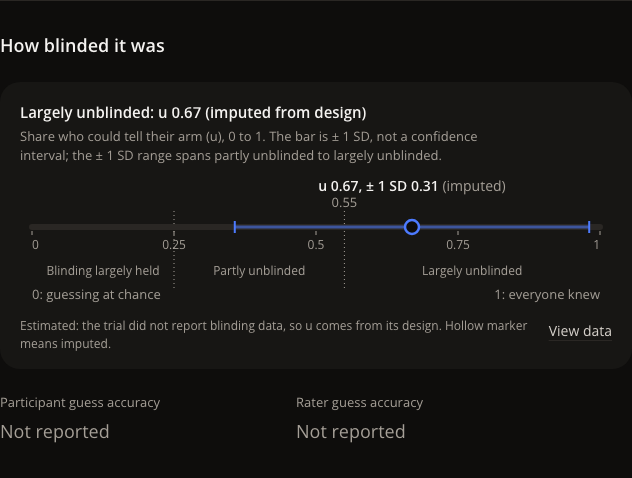
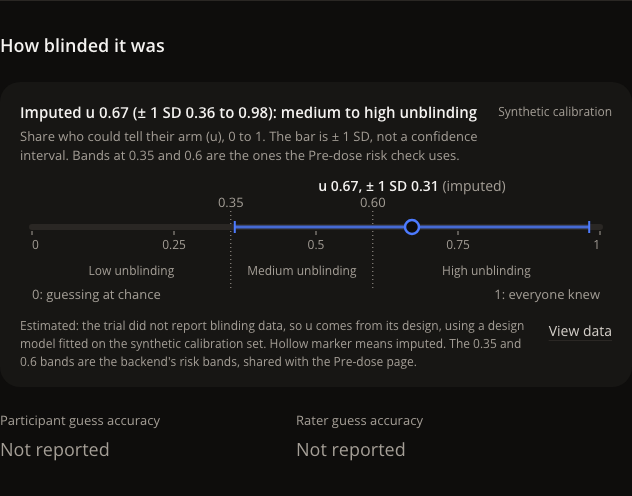
Studio fix round 1: backend bands and SD-aware verdict on the blinding meter, synthetic calibration tags, assumed feasibility, tap tooltips, focus ring

diff --git a/frontend/src/components/studio/FixesChart.tsx b/frontend/src/components/studio/FixesChart.tsx
@@ -25,12 +25,28 @@ export function fixesSubtitle(fx: Fix[]): string {
   const top = fx[0];
   const bigger = fx.slice(1).find((f) => has(f.reduction) && has(top?.reduction) && f.reduction > (top.reduction as number));
   if (!top || !bigger) return `${base}.`;
-  return `${base}. ${bigger.change} cuts slightly more (${fmt(bigger.reduction, 3)}) but is less feasible (${fmt(bigger.feasibility, 1)}).`;
+  const gap = (bigger.reduction as number) - (top.reduction as number);
+  const qualifier = gap < 0.01 ? "slightly more" : gap < 0.05 ? "more" : "much more";
+  return `${base}. ${bigger.change} cuts ${qualifier} (${fmt(bigger.reduction, 3)} vs ${fmt(top.reduction, 3)} g) but has a lower assumed feasibility (${fmt(bigger.feasibility, 1)}).`;
+}
+
+/** Footnote: feasibility is an assumption, and how the gap between the top two compares with the u uncertainty. */
+export function fixesFootnote(fx: Fix[]): string {
+  const parts = ["Expected bias is the model's prediction for a new trial with this change, using the same calibration.",
+    "Feasibility weights are assumptions from the model's assumption table, not data."];
+  const [a, b] = fx;
+  if (a && b && has(a.reduction) && has(b.reduction)) {
+    const gap = Math.abs(a.reduction - b.reduction);
+    const sds = [a.uSd, b.uSd].filter(has);
+    const inside = sds.length > 0 && gap < Math.min(...sds);
+    parts.push(`The top two differ by ${fmt(gap, 3)} g in expected bias reduction${sds.length ? `, ${inside ? "well inside" : "compared with"} the uncertainty in predicted u (SD ${sds.map((v) => fmt(v)).join(" and ")})` : ""}.`);
+  }
+  return parts.join(" ");
 }
 
 export function fixesAria(fx: Fix[]): string {
   return `Design changes ranked by bias reduction times feasibility: ${fx
-    .map((f) => `${lower(f.change)} ${fmt(f.before, 3)} to ${fmt(f.after, 3)}, feasibility ${fmt(f.feasibility, 1)}`)
+    .map((f) => `${lower(f.change)} ${fmt(f.before, 3)} to ${fmt(f.after, 3)}, assumed feasibility ${fmt(f.feasibility, 1)}`)
     .join("; ")}.`;
 }
 
@@ -42,7 +58,7 @@ export function fixesTable(fx: Fix[]) {
       { key: "before", label: "Before (g)", align: "right" as const },
       { key: "after", label: "After (g)", align: "right" as const },
       { key: "reduction", label: "Reduction (g)", align: "right" as const },
-      { key: "feasibility", label: "Feasibility (0 to 1)", align: "right" as const },
+      { key: "feasibility", label: "Feasibility (assumed weight, 0 to 1)", align: "right" as const },
       { key: "score", label: "Score", align: "right" as const },
     ],
     rows: fx.map((f, i) => ({
@@ -54,7 +70,7 @@ export function fixesTable(fx: Fix[]) {
 }
 
 function tipText(f: Fix): string {
-  return `${f.change}: expected bias ${fmt(f.before, 3)} to ${fmt(f.after, 3)} g, reduction ${fmt(f.reduction, 3)}, feasibility ${fmt(f.feasibility, 1)}, score ${fmt(f.score, 3)}`;
+  return `${f.change}: expected bias ${fmt(f.before, 3)} to ${fmt(f.after, 3)} g, reduction ${fmt(f.reduction, 3)}, assumed feasibility ${fmt(f.feasibility, 1)}, score ${fmt(f.score, 3)}`;
 }
 
 export function FixesChart({ fx }: { fx: Fix[] }) {
@@ -62,11 +78,11 @@ export function FixesChart({ fx }: { fx: Fix[] }) {
   const { tip, markProps } = usePointTip();
   const narrow = W < 520;
   const L = 24, R = narrow ? 10 : 200;
-  const maxBefore = Math.max(0.1, ...fx.flatMap((f) => [f.before, f.after]).filter(has));
-  const { ticks, step } = niceTicks(0, maxBefore, 5);
+  const vals = fx.flatMap((f) => [f.before, f.after]).filter(has);
+  const { ticks, step } = niceTicks(Math.min(0, ...vals), Math.max(0.1, ...vals), 5);
   const dp = decimals(step);
-  const hi = ticks[ticks.length - 1];
-  const x = (v: number) => L + (v / hi) * (W - L - R);
+  const lo = ticks[0], hi = ticks[ticks.length - 1];
+  const x = (v: number) => L + ((v - lo) / (hi - lo)) * (W - L - R);
 
   const rows = fx.map((f) => ({ f, lines: wrap(f.change, (narrow ? W - L - R : W - L - 8), 7.2) }));
   let y = 22;
@@ -91,6 +107,13 @@ export function FixesChart({ fx }: { fx: Fix[] }) {
         {ticks.map((t) => (
           <line key={`g${t}`} x1={x(t)} x2={x(t)} y1={12} y2={axisY} className="st-grid" />
         ))}
+        {/* "No bias" rule at 0 when the domain extends below 0; otherwise 0 is the axis origin. */}
+        {lo < 0 ? (
+          <>
+            <line x1={x(0)} x2={x(0)} y1={12} y2={axisY} className="st-null" />
+            <text x={x(0)} y={8} textAnchor="middle" className="st-label st-label--ref">No bias</text>
+          </>
+        ) : null}
         {laid.map(({ f, lines, labelY, trackY, valueY }, i) => {
           const text = tipText(f);
           const bx = has(f.before) ? x(f.before) : null;
@@ -106,24 +129,33 @@ export function FixesChart({ fx }: { fx: Fix[] }) {
               ) : null}
               <g {...markProps(((bx ?? 0) + (ax ?? 0)) / 2, trackY, text)}>
                 <title>{text}</title>
+                {bx !== null && ax !== null ? (
+                  <rect x={Math.min(ax, bx) - 12} y={trackY - 12} width={Math.abs(bx - ax) + 24} height={24} className="st-hit" />
+                ) : null}
                 {bx !== null ? <circle cx={bx} cy={trackY} r={6} className="st-before" /> : null}
                 {ax !== null ? <circle cx={ax} cy={trackY} r={6} style={{ fill: VIOLET, stroke: "var(--color-eggshell)", strokeWidth: 1.5 }} /> : null}
               </g>
               {i === 0 && bx !== null && ax !== null ? (
                 <>
-                  <text x={bx + (ax <= bx ? 11 : -11)} y={trackY + 4} textAnchor={ax <= bx ? "start" : "end"} className="st-label st-label--small">Before</text>
+                  {(() => {
+                    // "Before" sits beyond the hollow dot, unless that would run past the plot edge; then it goes above the dot.
+                    const out = ax <= bx ? bx + 11 + 44 > W - 2 : bx - 11 - 44 < 0;
+                    return out
+                      ? <text x={bx} y={trackY - 11} textAnchor="middle" className="st-label st-label--small">Before</text>
+                      : <text x={bx + (ax <= bx ? 11 : -11)} y={trackY + 4} textAnchor={ax <= bx ? "start" : "end"} className="st-label st-label--small">Before</text>;
+                  })()}
                   <text x={ax + (ax <= bx ? -11 : 11)} y={trackY + 4} textAnchor={ax <= bx ? "end" : "start"} className="st-label st-label--small">After</text>
                 </>
               ) : null}
               {narrow ? (
                 <text x={L} y={valueY} className="st-sub">
                   <tspan className="st-value-inline">{fmt(f.before, 3)} to {fmt(f.after, 3)} ({fmt(has(f.reduction) ? -f.reduction : null, 3)})</tspan>
-                  {`, feasibility ${fmt(f.feasibility, 1)}, score ${fmt(f.score, 3)}`}
+                  {`, feasibility (assumed) ${fmt(f.feasibility, 1)}`}
                 </text>
               ) : (
                 <text x={W} y={trackY + 4} textAnchor="end" className="st-sub">
                   <tspan className="st-value-inline">{fmt(f.before, 3)} to {fmt(f.after, 3)} ({fmt(has(f.reduction) ? -f.reduction : null, 3)})</tspan>
-                  <tspan x={W} dy={16}>{`feasibility ${fmt(f.feasibility, 1)}, score ${fmt(f.score, 3)}`}</tspan>
+                  <tspan x={W} dy={16}>{`feasibility (assumed) ${fmt(f.feasibility, 1)}, score ${fmt(f.score, 3)}`}</tspan>
                 </text>
               )}
             </g>
@@ -133,7 +165,7 @@ export function FixesChart({ fx }: { fx: Fix[] }) {
         {ticks.map((t) => (
           <g key={`t${t}`}>
             <line x1={x(t)} x2={x(t)} y1={axisY} y2={axisY + 4} className="st-axis" />
-            <text x={x(t)} y={axisY + 18} textAnchor="middle" className="st-tick">{t === 0 ? "0" : fmt(t, dp)}</text>
+            <text x={x(t)} y={axisY + 18} textAnchor="middle" className="st-tick">{Math.abs(t) < 1e-9 ? "0" : fmt(t, dp)}</text>
           </g>
         ))}
         <text x={L + (W - L - R) / 2} y={axisY + 36} textAnchor="middle" className="st-label">Expected bias (g)</text>

diff --git a/frontend/src/components/studio/BlindingMeter.tsx b/frontend/src/components/studio/BlindingMeter.tsx
@@ -1,7 +1,7 @@
 /**
  * BlindingMeter (blinding-meter): the unblinding u on a 0 to 1 scale with its ± 1 SD bar.
- * The verdict word's cut-offs (report.ts BLINDING_BANDS: 0.25 and 0.55) are drawn as they are in code,
- * so the word has visible boundaries. The bar is the SD the report carries, not a confidence interval.
+ * The band cut-offs are the backend's (report.ts BLINDING_BANDS, from predose/agents.py: 0.35 and 0.6),
+ * so Studio and Pre-dose classify u the same way. When the ± 1 SD range crosses a cut-off, no single band is claimed. The bar is the SD the report carries, not a confidence interval.
  */
 import type { Blinding } from "./report";
 import { BLINDING_BANDS, bandWord, fmt } from "./report";
@@ -33,20 +33,32 @@ function sdRange(b: Blinding): [number, number] | null {
   return b.u !== null && b.uSd !== null ? [Math.max(0, b.u - b.uSd), Math.min(1, b.u + b.uSd)] : null;
 }
 
+/** Bands the ± 1 SD range touches (or the estimate's band when there is no SD). */
+export function spannedBands(b: Blinding): typeof BLINDING_BANDS {
+  const r = sdRange(b);
+  if (!r) return b.u === null ? [] : BLINDING_BANDS.filter((band) => b.u! >= band.from && b.u! < band.below);
+  return BLINDING_BANDS.filter((band) => r[1] >= band.from && r[0] < band.below);
+}
+
 export function blindingTitle(b: Blinding): string {
+  const r = sdRange(b);
+  const spanned = spannedBands(b);
+  const prefix = b.observed ? "Observed" : "Imputed";
+  if (r && spanned.length > 1) {
+    const words = `${spanned[0].band} to ${spanned[spanned.length - 1].band} unblinding`;
+    return `${prefix} u ${fmt(b.u)} (± 1 SD ${fmt(r[0])} to ${fmt(r[1])}): ${words}`;
+  }
   return `${b.word}: u ${fmt(b.u)} (${statusPhrase(b.status)})`;
 }
 
-export function blindingSubtitle(b: Blinding): string {
-  const base = "Share who could tell their arm (u), 0 to 1. The bar is ± 1 SD, not a confidence interval";
-  const r = sdRange(b);
-  if (!r) return `${base}.`;
-  const words = BLINDING_BANDS.filter((band) => r[1] >= band.from && r[0] < band.below).map((band) => band.word.toLowerCase());
-  return words.length > 1 ? `${base}; the ± 1 SD range spans ${words.join(" to ")}.` : `${base}.`;
+export function blindingSubtitle(): string {
+  return "Share who could tell their arm (u), 0 to 1. The bar is ± 1 SD, not a confidence interval. Bands at 0.35 and 0.6 are the ones the Pre-dose risk check uses.";
 }
 
 export function blindingAria(b: Blinding): string {
-  return `Unblinding u ${fmt(b.u)}, SD ${fmt(b.uSd)}, ${statusPhrase(b.status)}. ${b.word}.`;
+  const sp = spannedBands(b);
+  const verdict = sp.length > 1 ? `The ± 1 SD range spans ${sp.map((x) => x.band).join(" to ")} unblinding` : b.word;
+  return `Unblinding u ${fmt(b.u)}, SD ${fmt(b.uSd)}, ${statusPhrase(b.status)}. ${verdict}.`;
 }
 
 export function BlindingMeter({ b }: { b: Blinding }) {
@@ -98,7 +110,7 @@ export function BlindingMeter({ b }: { b: Blinding }) {
         ))}
         {r ? (
           <g>
-            <line x1={x(r[0])} x2={x(r[1])} y1={trackY} y2={trackY} strokeWidth={3} style={{ stroke: VIOLET, opacity: 0.55 }} />
+            <line x1={x(r[0])} x2={x(r[1])} y1={trackY} y2={trackY} strokeWidth={3} style={{ stroke: VIOLET, opacity: 0.8 }} />
             <line x1={x(r[0])} x2={x(r[0])} y1={trackY - 6} y2={trackY + 6} strokeWidth={2} style={{ stroke: VIOLET }} />
             <line x1={x(r[1])} x2={x(r[1])} y1={trackY - 6} y2={trackY + 6} strokeWidth={2} style={{ stroke: VIOLET }} />
           </g>
@@ -131,10 +143,11 @@ export function blindingTable(b: Blinding, participants: number | null, raters: 
       { item: "Unblinding u (0 to 1)", value: b.u, note: `${statusPhrase(b.status)}. ${b.note}`.trim() },
       { item: "SD of u", value: b.uSd, note: "Standard deviation, not a confidence interval" },
       { item: "± 1 SD range", value: r ? `${fmt(r[0])} to ${fmt(r[1])}` : null, note: "u ± SD, clipped to 0 to 1 (computed in the browser)" },
-      { item: "Verdict word", value: b.u !== null ? bandWord(b.u) : null, note: "u below 0.25: blinding largely held; below 0.55: partly unblinded; else largely unblinded" },
+      { item: "Band of the estimate", value: b.u !== null ? bandWord(b.u) : null, note: "Backend bands (predose/agents.py): u below 0.35 low, below 0.6 medium, else high" },
+      { item: "Bands within ± 1 SD", value: spannedBands(b).map((x) => x.band).join(" to ") || null, note: "No single band is claimed when this spans more than one" },
       { item: "Participant guess accuracy", value: participants, note: participants === null ? "Not reported" : "" },
       { item: "Rater guess accuracy", value: raters, note: raters === null ? "Not reported" : "" },
     ],
-    note: "From the report's facts u, u_sd and guess_acc_*. Cut-offs as used by the Studio's verdict word.",
+    note: "From the report's facts u, u_sd and guess_acc_*. Band cut-offs duplicated from the backend's risk bands.",
   };
 }

diff --git a/frontend/src/components/studio/ReportView.tsx b/frontend/src/components/studio/ReportView.tsx
@@ -6,7 +6,7 @@ import { useCallback, useMemo, useState } from "react";
 import type { EvidenceReport } from "../../types";
 import { BlindingMeter, blindingAria, blindingSubtitle, blindingTable, blindingTitle } from "./BlindingMeter";
 import { EffectChart, effectAria, effectFlags, effectTable, effectTitle } from "./EffectChart";
-import { FixesChart, fixesAria, fixesSubtitle, fixesTable, fixesTitle } from "./FixesChart";
+import { FixesChart, fixesAria, fixesFootnote, fixesSubtitle, fixesTable, fixesTitle } from "./FixesChart";
 import { ChartFrame } from "./Frame";
 import { FactDrawer, StatusDot, statusTone, statusWord } from "./FactDrawer";
 import type { FactRow } from "./report";
@@ -101,6 +101,7 @@ export function ReportView({ report, input, onUseFixes }: {
               title={effectTitle(eff)}
               subtitle="Adjusted estimate is conservative, under stated assumptions"
               synthetic={synthetic}
+              tag="Synthetic calibration"
               status={sign ? { label: sign.label, tone: "watch" } : undefined}
               ariaLabel={effectAria(eff, flags)}
               dataTable={effectTable(eff, flags)}
@@ -130,15 +131,16 @@ export function ReportView({ report, input, onUseFixes }: {
           <ChartFrame
             id="blinding-meter"
             title={blindingTitle(bl)}
-            subtitle={blindingSubtitle(bl)}
-            synthetic={false}
+            subtitle={blindingSubtitle()}
+            synthetic={synthetic && !bl.observed}
+            tag="Synthetic calibration"
             ariaLabel={blindingAria(bl)}
             dataTable={blindingTable(bl, accP, accR)}
             empty={bl.u === null ? { title: "Blinding not assessed in the source" } : null}
             footnotes={
               bl.observed
                 ? "Observed: worked out from the trial's own blinding data (how often people guessed their arm)."
-                : "Estimated: the trial did not report blinding data, so u comes from its design. Hollow marker means imputed."
+                : `Estimated: the trial did not report blinding data, so u comes from its design${synthetic ? ", using a design model fitted on the synthetic calibration set" : ""}. Hollow marker means imputed. The 0.35 and 0.6 bands are the backend's risk bands, shared with the Pre-dose page.`
             }
           >
             <BlindingMeter b={bl} />
@@ -185,10 +187,11 @@ export function ReportView({ report, input, onUseFixes }: {
           title={fixes.length ? fixesTitle(fixes) : "No design changes proposed"}
           subtitle={fixes.length ? fixesSubtitle(fixes) : undefined}
           synthetic={synthetic}
+          tag="Synthetic calibration"
           ariaLabel={fixes.length ? fixesAria(fixes) : "No design changes proposed"}
           dataTable={fixes.length ? fixesTable(fixes) : undefined}
           empty={fixes.length ? null : { title: "No design changes proposed" }}
-          footnotes={fixes.length ? "Expected bias is the model's prediction for a new trial with this change, using the same calibration." : undefined}
+          footnotes={fixes.length ? fixesFootnote(fixes) : undefined}
         >
           <FixesChart fx={fixes} />
         </ChartFrame>

diff --git a/frontend/src/components/studio/report.ts b/frontend/src/components/studio/report.ts
@@ -71,6 +71,8 @@ export interface Fix {
   feasibility: number | null;
   /** counterfactuals[].score = reduction × feasibility; the pipeline ranks by it. */
   score: number | null;
+  /** counterfactuals[].u_sd: SD of the predicted u under this change. */
+  uSd: number | null;
 }
 
 export interface TraceRow {
@@ -182,13 +184,14 @@ export function effect(r: EvidenceReport): Effect | null {
 }
 
 /**
- * Word boundaries for the unblinding u, exactly as the verdict uses them (u < 0.25, u < 0.55, else).
- * The blinding meter draws these cut-offs so the verdict has visible boundaries.
+ * Bands for the unblinding u, duplicated from the backend so Studio and Pre-dose agree:
+ * unblind/platform/predose/agents.py ProtocolCoDesigner.risk(): band = "high" if u >= 0.6 else "medium" if u >= 0.35 else "low".
+ * Keep these in step with that line. The blinding meter draws these cut-offs.
  */
-export const BLINDING_BANDS: { word: string; tone: Blinding["tone"]; from: number; below: number }[] = [
-  { word: "Blinding largely held", tone: "good", from: 0, below: 0.25 },
-  { word: "Partly unblinded", tone: "watch", from: 0.25, below: 0.55 },
-  { word: "Largely unblinded", tone: "alert", from: 0.55, below: Infinity },
+export const BLINDING_BANDS: { word: string; band: string; tone: Blinding["tone"]; from: number; below: number }[] = [
+  { word: "Low unblinding", band: "low", tone: "good", from: 0, below: 0.35 },
+  { word: "Medium unblinding", band: "medium", tone: "watch", from: 0.35, below: 0.6 },
+  { word: "High unblinding", band: "high", tone: "alert", from: 0.6, below: Infinity },
 ];
 
 export function bandWord(v: number): string {
@@ -240,6 +243,7 @@ export function fixes(r: EvidenceReport): Fix[] {
     after: num(c.expected_bias_after),
     feasibility: num(c.feasibility_weight ?? c.feasibility),
     score: num(c.score),
+    uSd: num(c.u_sd),
   }));
 }
 

diff --git a/frontend/src/components/studio/PointTip.tsx b/frontend/src/components/studio/PointTip.tsx
@@ -27,6 +27,7 @@ export function useWidth(initial = 560) {
 export function usePointTip() {
   const [tip, setTipState] = useState<Tip | null>(null);
   const openedAt = useRef(0);
+  const focusOpenedAt = useRef(0);
   const setTip = useCallback((next: Tip | null | ((t: Tip | null) => Tip | null)) => {
     openedAt.current = Date.now();
     setTipState(next);
@@ -60,9 +61,13 @@ export function usePointTip() {
     className: "st-mark",
     onMouseEnter: () => setTip({ x, y, text }),
     onMouseLeave: close,
-    onFocus: () => setTip({ x, y, text }),
+    onFocus: () => { focusOpenedAt.current = Date.now(); setTip({ x, y, text }); },
     onBlur: close,
-    onClick: () => setTip((t) => (t && t.text === text ? null : { x, y, text })),
+    // A tap fires focus then click: within ~300 ms of a focus-open the click only keeps it open, never toggles it shut.
+    onClick: () => {
+      const justFocused = Date.now() - focusOpenedAt.current < 300;
+      setTip((t) => (t && t.text === text && !justFocused ? null : { x, y, text }));
+    },
     onKeyDown: (e: KeyboardEvent) => { if (e.key === "Escape") close(); },
   });
 

diff --git a/frontend/src/styles/studio.css b/frontend/src/styles/studio.css
@@ -121,7 +121,7 @@
 .st-before { fill: var(--color-eggshell); stroke: var(--color-smoke); stroke-width: 1.5; }
 .st-hit { fill: transparent; }
 .st-mark { cursor: pointer; outline: none; }
-.st-mark:focus-visible .st-hit { stroke: var(--color-ink); stroke-width: 1.5; }
+.st-mark:focus-visible .st-hit { stroke: var(--color-graphite); stroke-width: 2; }
 .st-tip { position: absolute; z-index: 5; pointer-events: none; }
 
 .st-tiles { margin-bottom: var(--space-2); }
@@ -197,3 +197,4 @@
   .studio-readout { gap: var(--space-4) var(--space-8); }
   .st-tiles { flex-direction: column; }
 }
+.st-conn, .st-conn-line, .st-arrowhead { pointer-events: none; }
